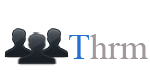
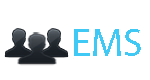
EMS 8 - As a user, I want login to system. EMS 11 - As a user, I want to Dashboard page. --> Improved layout Dashboard and Login page.

Changed region(s): [[0.4533, 0.35, 0.9867, 0.75]]

diff --git a/themes/bootstrap/css/styles.css b/themes/bootstrap/css/styles.css
@@ -11,12 +11,24 @@
 }
 
 .container ul li.active a {
-    color: #2399BF !important;
+    color: #40c9f5 !important;
+}
+
+.brand {
+    left: 175px;
+    top: 2px;
+    position: absolute;
+    z-index: 10000;
+}
+
+.navbar-fixed-top { position: relative !important;}
+.navbar .nav > li:nth-child(1) {
+    margin-left: 70px !important;
 }
 
 hr {border-top:1px dotted #cccccc;}
 
-/**/
+/* CSS for footer */
 div#block-toolbar {
     background: url(../images/index_top.png) repeat-x scroll 0 0 transparent;
     border-bottom: 1px solid rgba(0, 0, 2, 0.1);
@@ -90,9 +102,7 @@ p, hr, ul, ol, dl, blockquote, pre, fieldset, figure {
     margin: 15px 0;
 }
 
-a, h2, h4, h5, h6, #footer a:hover, .menu-dropdown li.active > a, .menu-sidebar a.active, .menu-sidebar li > span.active, #system .pagination a:hover {
-    color: #B22222;
-}
+
 a {
     color: #777779;
 }
@@ -115,31 +125,6 @@ a, a:hover {
     overflow: hidden;
     text-indent: 50px;
     width: 30px;
-}
-
-.social-icons .facebook a {
-    background-position: 0 -140px;
-}
-.social-icons .facebook a:hover {
-    background-position: 0 -175px;
-}
-.social-icons .twitter a {
-    background-position: 0 -8px;
-}
-.social-icons .twitter a:hover {
-    background-position: 0 -40px;
-}
-.social-icons .youtube a {
-    background-position: 0 -73px;
-}
-.social-icons .youtube a:hover {
-    background-position: 0 -105px;
-}
-.social-icons .googleplus a {
-    background-position: 0 -211px;
-}
-.social-icons .googleplus a:hover {
-    background-position: 0 -246px;
 }
 
 ul.bottom_right, ol.bottom_right, dl.bottom_right {
@@ -178,12 +163,18 @@ ul.bottom_left, ol.bottom_left, dl.bottom_left {
     line-height: 30px;
 }
 li.users a {background: url(../images/ql-users.gif) no-repeat scroll 0 0px transparent;}
-li.options a {background: url(../images/ql-options.gif) no-repeat scroll 0 0px transparent;}
+li.users a strong { color: #40c9f5;}
+li.options a {background: url(../images/facebook.gif) no-repeat scroll 0 0px transparent;}
 li.settings a {background: url(../images/ql-settings.gif) no-repeat scroll 0 0px transparent;}
-li.messages a {background: url(../images/ql-messages.gif) no-repeat scroll 0 0px transparent;}
-li.databases a {background: url(../images/ql-databases.gif) no-repeat scroll 0 0px transparent;}
+li.messages a {background: url(../images/it-science.gif) no-repeat scroll 0 0px transparent;}
+li.databases a {background: url(../images/logo.gif) no-repeat scroll 0 0px transparent;}
 
-
+.databases {
+    padding-bottom: 5px;
+}
+.messages {
+    padding-bottom: 5px;
+}
 div#distance2 {
     clear: both;
     margin-top: 20px;

diff --git a/themes/bootstrap/css/login.css b/themes/bootstrap/css/login.css
@@ -9,7 +9,7 @@
 #img_header {
     position:relative;
     top: 30px;
-
+    left: 410px;
 }
 
 hr {border-top:1px dotted #cccccc;}
@@ -52,7 +52,7 @@ hr {border-top:1px dotted #cccccc;}
     left: 200px ;
 }
 
-/**/
+/* CSS for footer */
 div#block-toolbar {
     background: url(../images/index_top.png) repeat-x scroll 0 0 transparent;
     border-bottom: 1px solid rgba(0, 0, 2, 0.1);
@@ -126,9 +126,6 @@ p, hr, ul, ol, dl, blockquote, pre, fieldset, figure {
     margin: 15px 0;
 }
 
-a, h2, h4, h5, h6, #footer a:hover, .menu-dropdown li.active > a, .menu-sidebar a.active, .menu-sidebar li > span.active, #system .pagination a:hover {
-    color: #B22222;
-}
 a {
     color: #777779;
 }
@@ -153,30 +150,6 @@ a, a:hover {
     width: 30px;
 }
 
-.social-icons .facebook a {
-    background-position: 0 -140px;
-}
-.social-icons .facebook a:hover {
-    background-position: 0 -175px;
-}
-.social-icons .twitter a {
-    background-position: 0 -8px;
-}
-.social-icons .twitter a:hover {
-    background-position: 0 -40px;
-}
-.social-icons .youtube a {
-    background-position: 0 -73px;
-}
-.social-icons .youtube a:hover {
-    background-position: 0 -105px;
-}
-.social-icons .googleplus a {
-    background-position: 0 -211px;
-}
-.social-icons .googleplus a:hover {
-    background-position: 0 -246px;
-}
 
 ul.bottom_right, ol.bottom_right, dl.bottom_right {
     padding-left: 0px;
@@ -214,12 +187,18 @@ ul.bottom_left, ol.bottom_left, dl.bottom_left {
     line-height: 30px;
 }
 li.users a {background: url(../images/ql-users.gif) no-repeat scroll 0 0px transparent;}
-li.options a {background: url(../images/ql-options.gif) no-repeat scroll 0 0px transparent;}
+li.users a strong { color: #40c9f5;}
+li.options a {background: url(../images/facebook.gif) no-repeat scroll 0 0px transparent;}
 li.settings a {background: url(../images/ql-settings.gif) no-repeat scroll 0 0px transparent;}
-li.messages a {background: url(../images/ql-messages.gif) no-repeat scroll 0 0px transparent;}
-li.databases a {background: url(../images/ql-databases.gif) no-repeat scroll 0 0px transparent;}
+li.messages a {background: url(../images/it-science.gif) no-repeat scroll 0 0px transparent;}
+li.databases a {background: url(../images/logo.gif) no-repeat scroll 0 0px transparent;}
 
-
+.databases {
+    padding-bottom: 5px;
+}
+.messages {
+    padding-bottom: 5px;
+}
 div#distance2 {
     clear: both;
     margin-top: 20px;

diff --git a/themes/bootstrap/views/layouts/login.php b/themes/bootstrap/views/layouts/login.php
@@ -16,7 +16,7 @@
 <body>
 
 <div class="wrapper">
-    <a href="<?php echo app()->createUrl('/Site/Login');?>"><img id="img_header" src="<?php echo app()->theme->baseUrl; ?>/images/ico/try1.png" alt="Image"></a>
+    <a class="header_img" href="<?php echo app()->createUrl('/Site/Login');?>"><img id="img_header" src="<?php echo app()->theme->baseUrl; ?>/images/ico/try1.png" alt="Image"></a>
     <hr>
 
     <div id="login-form">
@@ -35,18 +35,18 @@
                             <div class="module  deepest">
                                 <ul class="bottom_left">
                                     <li class="databases">
-                                        <a title="Glandore Systems" target="_blank" href="http://www.GlandoreSystems.com/" class="mootip">
-                                            <strong style="float: left">The POWER to Launch BIG Ideas</strong>
+                                        <a title="" target="_blank" href="http://www.hcmutrans.edu.vn/" class="mootip">
+                                            <strong style="float: left">Ho Chi Minh City University of Transport</strong>
                                         </a>
                                     </li>
                                     <li class="messages">
-                                        <a title="Glandore Systems" target="_blank" href="http://www.GlandoreSystems.com/" class="mootip">
-                                            <strong style="float: left">Software Innovation Consultancy</strong>
+                                        <a title="" target="_blank" href="http://www.hcmutrans.edu.vn/khoa/cntt/Web/index.php" class="mootip">
+                                            <strong style="float: left">IT science</strong>
                                         </a>
                                     </li>
                                     <li class="options">
-                                        <a title="Glandore Systems" target="_blank" href="http://www.GlandoreSystems.com/" class="mootip">
-                                            <strong style="float: left">Generate IDEAS and Formulate BEST Practices</strong>
+                                        <a title="" target="_blank" href="http://www.facebook.com/groups/CN11LT.dhgtvt/" class="mootip">
+                                            <strong style="float: left">CN11LT</strong>
                                         </a>
                                     </li>
                                 </ul>
@@ -56,12 +56,12 @@
                             <div class="module  deepest">
                                 <ul class="bottom_right">
                                     <li class="users">
-                                        <a title="Glandore Human Resource" href="#" class="mootip">
+                                        <a title="" href="#" style="text-decoration: none" class="mootip">
                                             <strong>EMS</strong>
                                         </a>
                                     </li>
                                     <li class="right_info">
-                                        Ho Chi Minh City University of Transport
+                                        Graduate Internship Project
                                     </li>
                                     <li class="right_info">
                                         Employee Management System

diff --git a/themes/bootstrap/views/layouts/main.php b/themes/bootstrap/views/layouts/main.php
@@ -15,6 +15,7 @@
 
 <body>
 
+<a href="<?php echo app()->createUrl('/site/index');?>"><img class="brand" src="<?php echo app()->theme->baseUrl; ?>/images/ico/mainnav.png" alt="Image"></a>
 <?php $this->widget('bootstrap.widgets.TbNavbar',array(
     'items'=>array(
         array(
@@ -82,18 +83,18 @@
                             <div class="module  deepest">
                                 <ul class="bottom_left">
                                     <li class="databases">
-                                        <a title="Glandore Systems" target="_blank" href="http://www.GlandoreSystems.com/" class="mootip">
-                                            <strong style="float: left">The POWER to Launch BIG Ideas</strong>
+                                        <a title="" target="_blank" href="http://www.hcmutrans.edu.vn/" class="mootip">
+                                            <strong style="float: left">Ho Chi Minh City University of Transport</strong>
                                         </a>
                                     </li>
                                     <li class="messages">
-                                        <a title="Glandore Systems" target="_blank" href="http://www.GlandoreSystems.com/" class="mootip">
-                                            <strong style="float: left">Software Innovation Consultancy</strong>
+                                        <a title="" target="_blank" href="http://www.hcmutrans.edu.vn/khoa/cntt/Web/index.php" class="mootip">
+                                            <strong style="float: left">IT science</strong>
                                         </a>
                                     </li>
                                     <li class="options">
-                                        <a title="Glandore Systems" target="_blank" href="http://www.GlandoreSystems.com/" class="mootip">
-                                            <strong style="float: left">Generate IDEAS and Formulate BEST Practices</strong>
+                                        <a title="" target="_blank" href="http://www.facebook.com/groups/CN11LT.dhgtvt/" class="mootip">
+                                            <strong style="float: left">CN11LT</strong>
                                         </a>
                                     </li>
                                 </ul>
@@ -103,12 +104,12 @@
                             <div class="module  deepest">
                                 <ul class="bottom_right">
                                     <li class="users">
-                                        <a title="Glandore Human Resource" href="#" class="mootip">
+                                        <a title="" href="#" style="text-decoration: none" class="mootip">
                                             <strong>EMS</strong>
                                         </a>
                                     </li>
                                     <li class="right_info">
-                                        Ho Chi Minh City University of Transport
+                                        Graduate Internship Project
                                     </li>
                                     <li class="right_info">
                                         Employee Management System

diff --git a/protected/config/main.php b/protected/config/main.php
@@ -8,7 +8,7 @@ Yii::setPathOfAlias('bootstrap', dirname(__FILE__).'/../extensions/bootstrap');
 // CWebApplication properties can be configured here.
 return array(
 	'basePath'=>dirname(__FILE__).DIRECTORY_SEPARATOR.'..',
-	'name'=>'EMS',
+	'name'=>'',
 
 	// preloading 'log' component
 	'preload'=>array(
@@ -84,6 +84,18 @@ return array(
             'enableParamLogging'=>true,
 		),
 
+        /* DB Non Relationship
+        'db'=>array(
+            'connectionString' => 'mysql:host=127.0.0.1;dbname=ems',
+            'emulatePrepare' => true,
+            'username' => 'root',
+            'password' => '',
+            'charset' => 'utf8',
+            'enableProfiling'=>true,
+            'enableParamLogging'=>true,
+        ),
+        */
+
         'authManager'=>array(
             'class'=>'CDbAuthManager',
             'connectionID'=>'db',
@@ -116,8 +128,8 @@ return array(
             'dryRun' => false,
             'transportOptions' => array(
                 'host' => 'smtp.gmail.com',
-                'username' => 'Enter your email',
-                'password' => 'Enter your pass',
+                'username' => 'noreply.ems.project@gmail.com',
+                'password' => 'pw-intern-2013',
                 'port' => '465',
                 'encryption' => 'ssl',
             )
@@ -128,7 +140,10 @@ return array(
 	// using Yii::app()->params['paramName']
 	'params'=>array(
 		// this is used in contact page
-		'adminEmail'=>'Enter your email',
+		'adminEmail'=>'adm.ems.project@gmail.com',
+        'adminName' => 'EMS Team',
+        'noreplyEmail' => 'noreply.ems.project@gmail.com',
+        'noreplyName' => 'noreply',
         'pageSize' => '20',
 	),
 );
